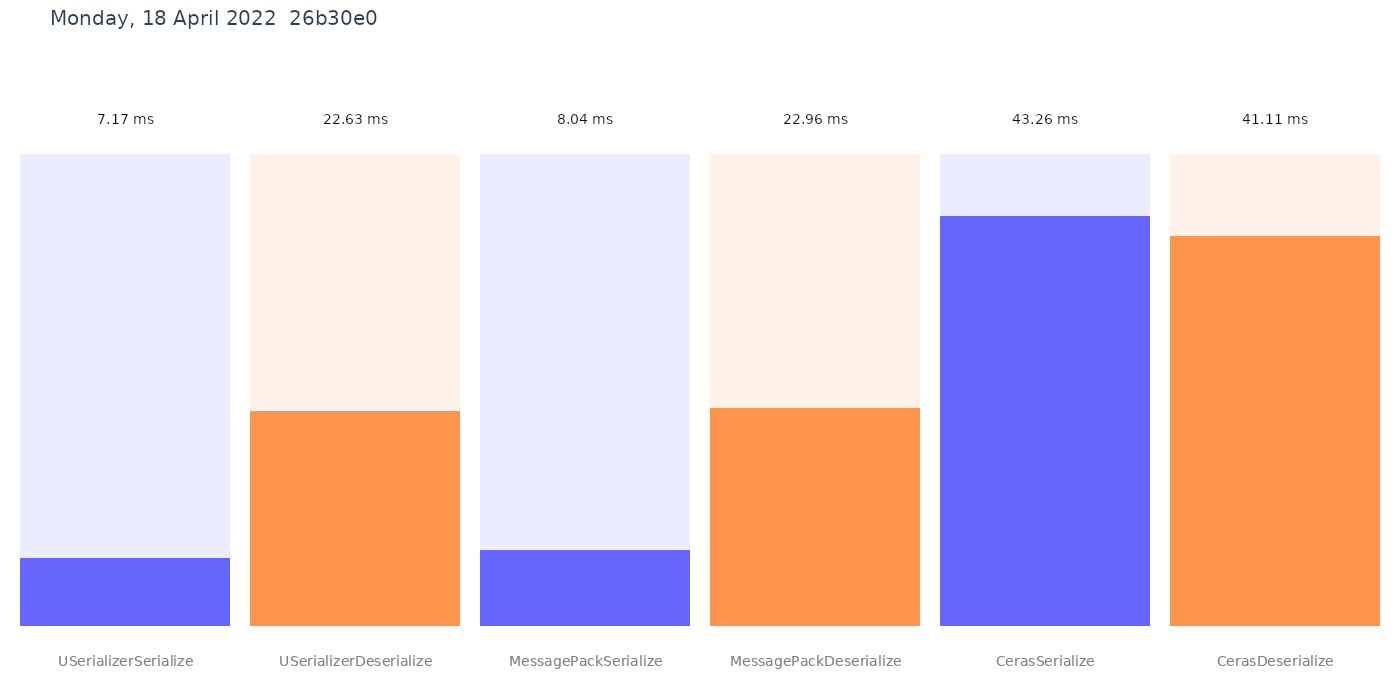
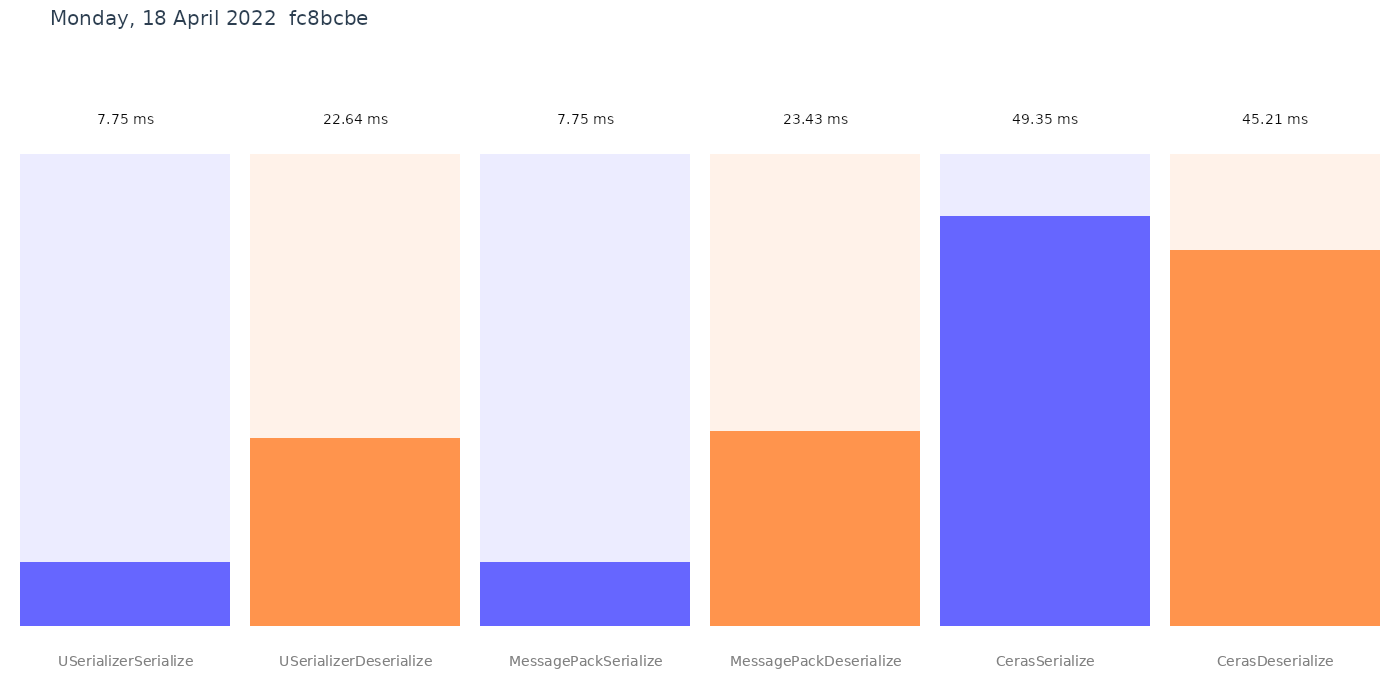
deploy: fc8bcbe1b143e3ce2cad796ffc98bcef742103c8

diff --git a/performance.md b/performance.md
@@ -12,9 +12,9 @@ WarmupCount=3
 ```
 |                 Method |      Mean |      Error |    StdDev |
 |----------------------- |----------:|-----------:|----------:|
-|   USerializerSerialize |  7.174 ms |  0.1268 ms | 0.0070 ms |
-| USerializerDeserialize | 22.627 ms |  2.2888 ms | 0.1255 ms |
-|   MessagePackSerialize |  8.035 ms |  0.0911 ms | 0.0050 ms |
-| MessagePackDeserialize | 22.964 ms |  2.7898 ms | 0.1529 ms |
-|         CerasSerialize | 43.258 ms |  2.4400 ms | 0.1337 ms |
-|       CerasDeserialize | 41.112 ms | 15.5086 ms | 0.8501 ms |
+|   USerializerSerialize |  7.749 ms |  0.0664 ms | 0.0036 ms |
+| USerializerDeserialize | 22.638 ms |  0.9080 ms | 0.0498 ms |
+|   MessagePackSerialize |  7.754 ms | 10.9520 ms | 0.6003 ms |
+| MessagePackDeserialize | 23.433 ms |  0.2985 ms | 0.0164 ms |
+|         CerasSerialize | 49.355 ms |  2.1187 ms | 0.1161 ms |
+|       CerasDeserialize | 45.211 ms |  0.4090 ms | 0.0224 ms |
